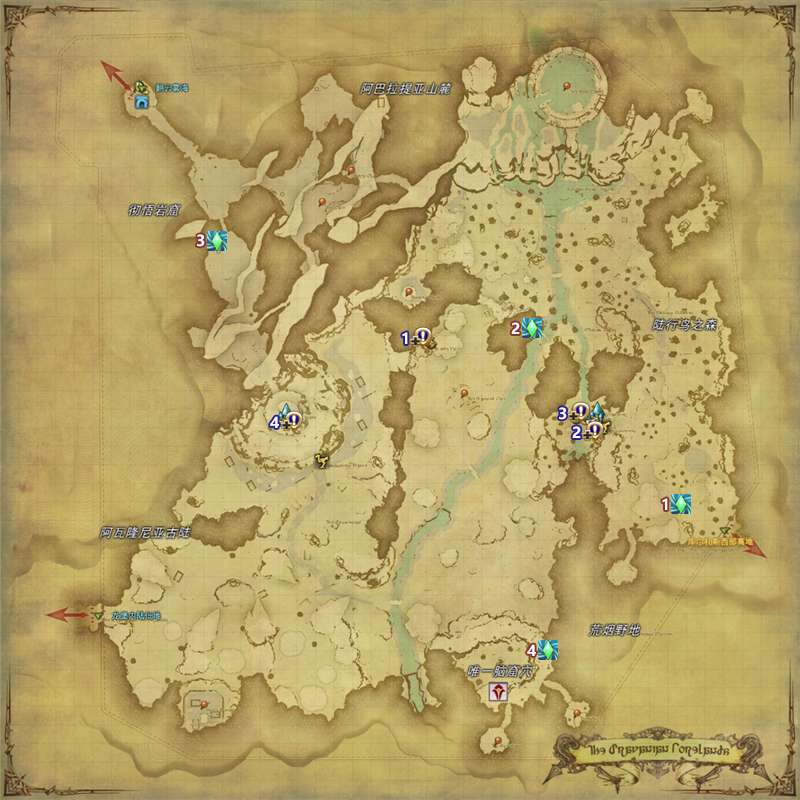
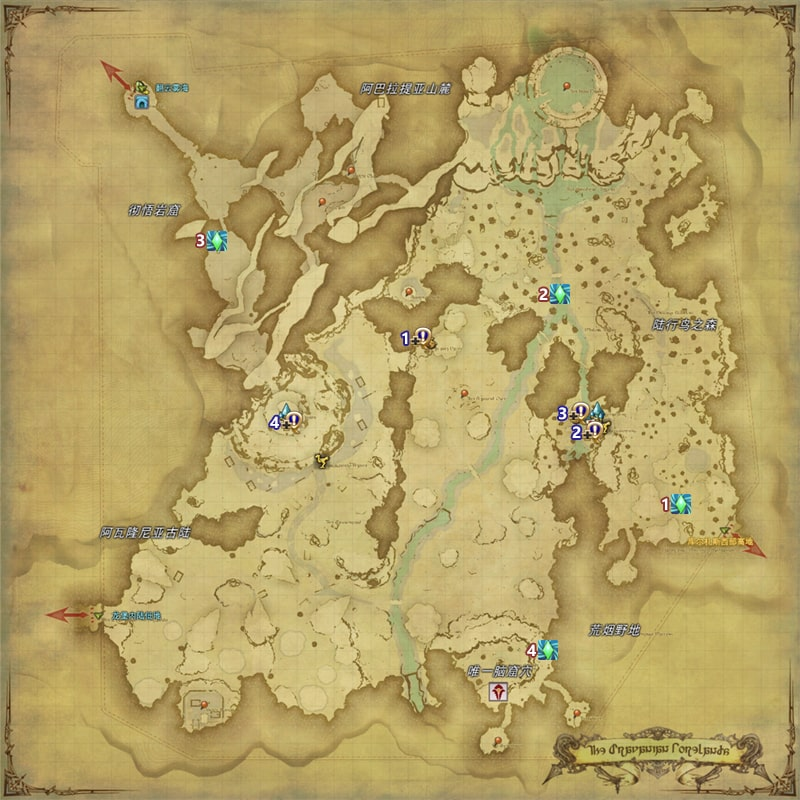
风脉BUG修正 (#28)
* 风脉BUG修正

风脉BUG修正

* Update index.html

diff --git a/lajipai/index.html b/lajipai/index.html
@@ -9,36 +9,36 @@
 
   <script type="text/javascript">
     window.navigator.cookieEnabled = false;
-    window._ver = '20220816';
+    window._ver = '20220817';
   </script>
-  <script src="js/jquery.min.js?ver=20220816"></script>
-  <script type="text/javascript" src="js/common.js?ver=20220816"></script>
-  <script type="text/javascript" src="js/position.js?ver=20220816"></script>
-  <script type="text/javascript" src="js/jquery.csv.js?ver=20220816"></script>
-  <script type="text/javascript" src="js/jquery.cookie.js?ver=20220816"></script>
-  <script type="text/javascript" src="js/bigger.js?ver=20220816"></script>
-  <script type="text/javascript" src="js/pets.js?ver=20220816"></script>
-  <script type="text/javascript" src="js/mounts.js?ver=20220816"></script>
-  <script type="text/javascript" src="js/music.js?ver=20220816"></script>
-  <script type="text/javascript" src="js/aether.js?ver=20220816"></script>
-  <script type="text/javascript" src="js/hunt.js?ver=20220816"></script>
-  <script type="text/javascript" src="js/dig.js?ver=20220816"></script>
-  <script type="text/javascript" src="js/emote.js?ver=20220816"></script>
-  <script type="text/javascript" src="js/explore.js?ver=20220816"></script>
-  <script type="text/javascript" src="js/bluemagic.js?ver=20220816"></script>
-  <script type="text/javascript" src="js/dye.js?ver=20220816"></script>
-  <script type="text/javascript" src="js/dungeons.js?ver=20220816"></script>
-  <script type="text/javascript" src="js/jobtask.js?ver=20220816"></script>
-  <script type="text/javascript" src="js/fateshop.js?ver=20220816"></script>
-  <script type="text/javascript" src="js/niaojia.js?ver=20220816"></script>
-  <script type="text/javascript" src="js/memo.js?ver=20220816"></script>
-  <script type="text/javascript" src="js/fashion.js?ver=20220816"></script>
-  <script type="text/javascript" src="js/dl&input.js?ver=20220816"></script>  
+  <script src="js/jquery.min.js?ver=20220817"></script>
+  <script type="text/javascript" src="js/common.js?ver=20220817"></script>
+  <script type="text/javascript" src="js/position.js?ver=20220817"></script>
+  <script type="text/javascript" src="js/jquery.csv.js?ver=20220817"></script>
+  <script type="text/javascript" src="js/jquery.cookie.js?ver=20220817"></script>
+  <script type="text/javascript" src="js/bigger.js?ver=20220817"></script>
+  <script type="text/javascript" src="js/pets.js?ver=20220817"></script>
+  <script type="text/javascript" src="js/mounts.js?ver=20220817"></script>
+  <script type="text/javascript" src="js/music.js?ver=20220817"></script>
+  <script type="text/javascript" src="js/aether.js?ver=20220817"></script>
+  <script type="text/javascript" src="js/hunt.js?ver=20220817"></script>
+  <script type="text/javascript" src="js/dig.js?ver=20220817"></script>
+  <script type="text/javascript" src="js/emote.js?ver=20220817"></script>
+  <script type="text/javascript" src="js/explore.js?ver=20220817"></script>
+  <script type="text/javascript" src="js/bluemagic.js?ver=20220817"></script>
+  <script type="text/javascript" src="js/dye.js?ver=20220817"></script>
+  <script type="text/javascript" src="js/dungeons.js?ver=20220817"></script>
+  <script type="text/javascript" src="js/jobtask.js?ver=20220817"></script>
+  <script type="text/javascript" src="js/fateshop.js?ver=20220817"></script>
+  <script type="text/javascript" src="js/niaojia.js?ver=20220817"></script>
+  <script type="text/javascript" src="js/memo.js?ver=20220817"></script>
+  <script type="text/javascript" src="js/fashion.js?ver=20220817"></script>
+  <script type="text/javascript" src="js/dl&input.js?ver=20220817"></script>  
 
-  <link href="css/common.css?ver=20220816" rel="stylesheet" type="text/css" />
-  <link href="css/style.css?ver=20220816" rel="stylesheet" type="text/css" />
-  <link rel="stylesheet" type="text/css" href="css/normalize.css?ver=20220816" />
-  <link rel="stylesheet" href="https://www.ffxiv.cn/sideBar/assets/style.css?ver=20220816" />
+  <link href="css/common.css?ver=20220817" rel="stylesheet" type="text/css" />
+  <link href="css/style.css?ver=20220817" rel="stylesheet" type="text/css" />
+  <link rel="stylesheet" type="text/css" href="css/normalize.css?ver=20220817" />
+  <link rel="stylesheet" href="https://www.ffxiv.cn/sideBar/assets/style.css?ver=20220817" />
 
   <!-- Global site tag (gtag.js) - Google Analytics -->
   <script async src="https://www.googletagmanager.com/gtag/js?id=UA-150677482-2"></script>
